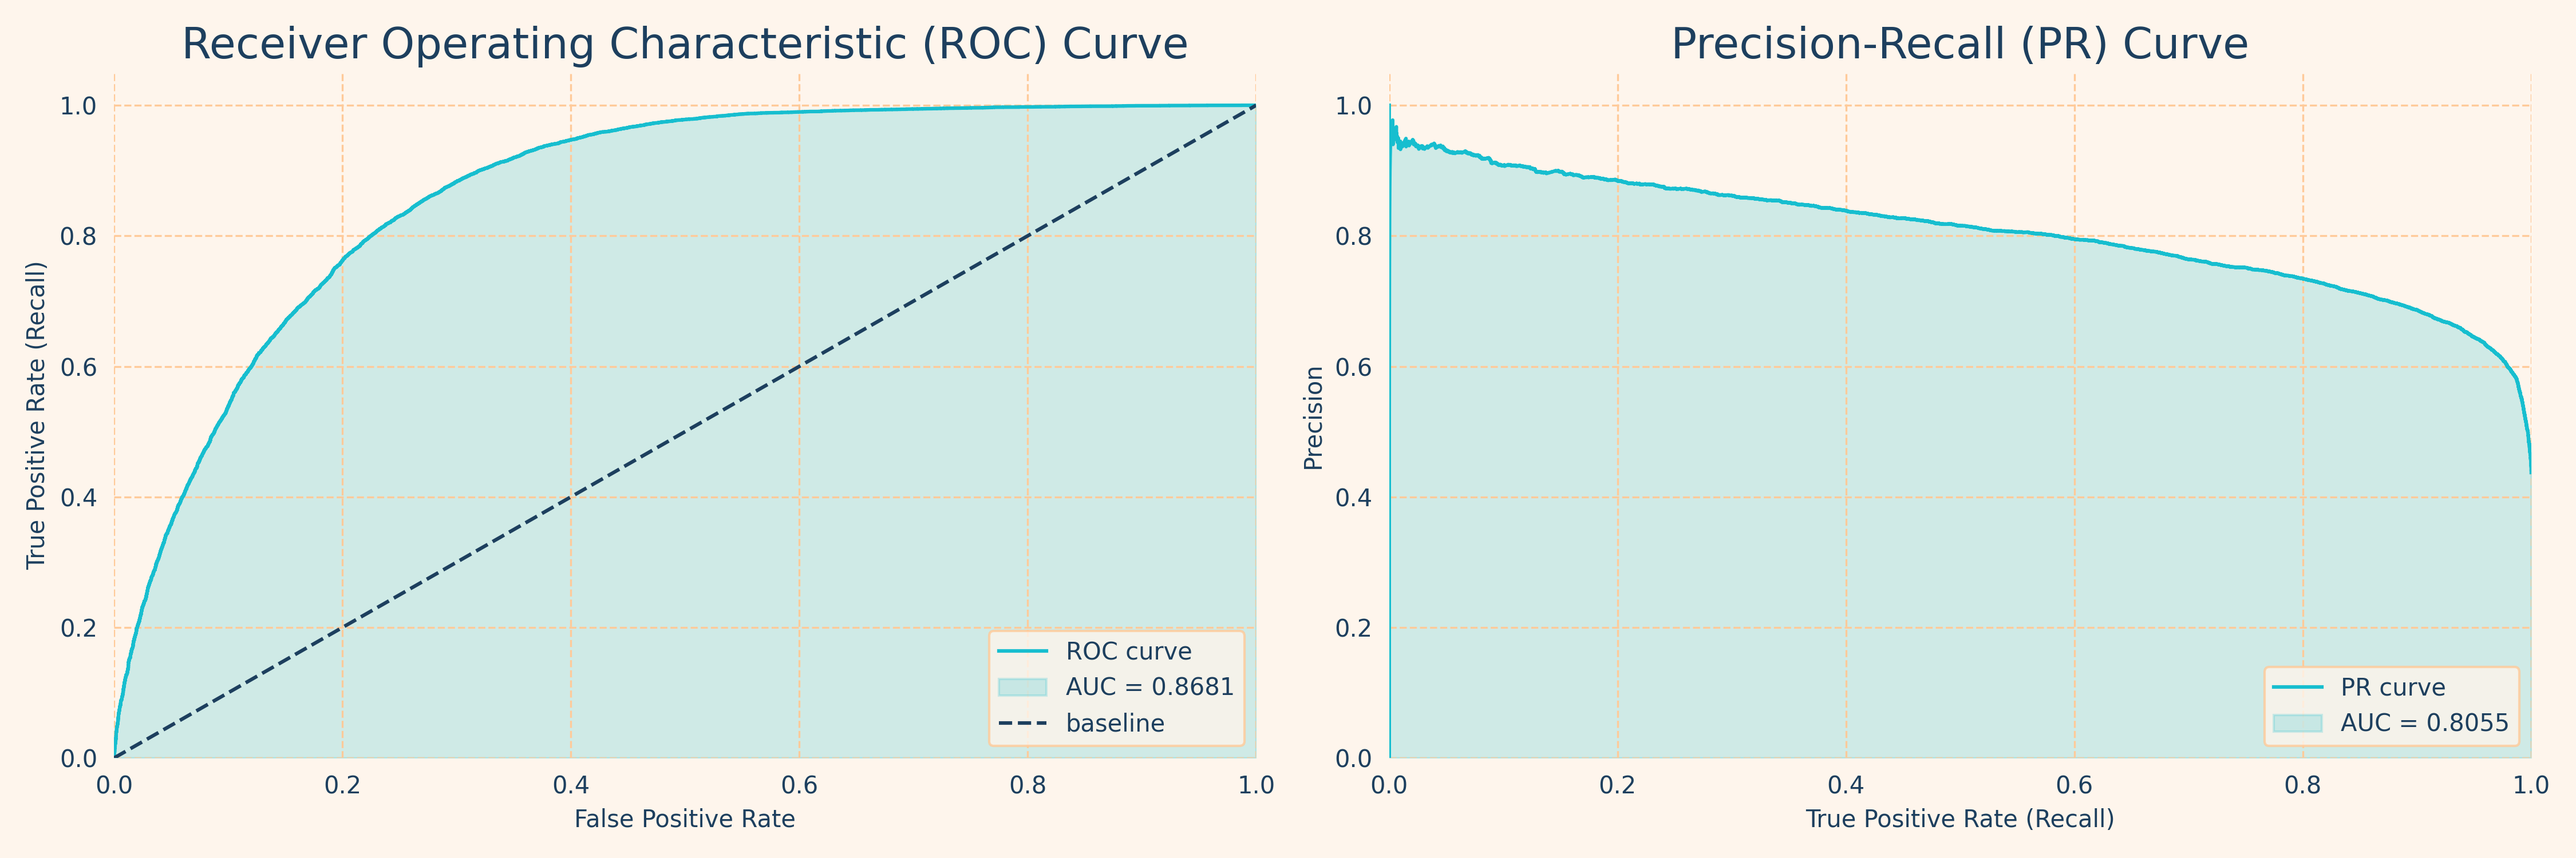
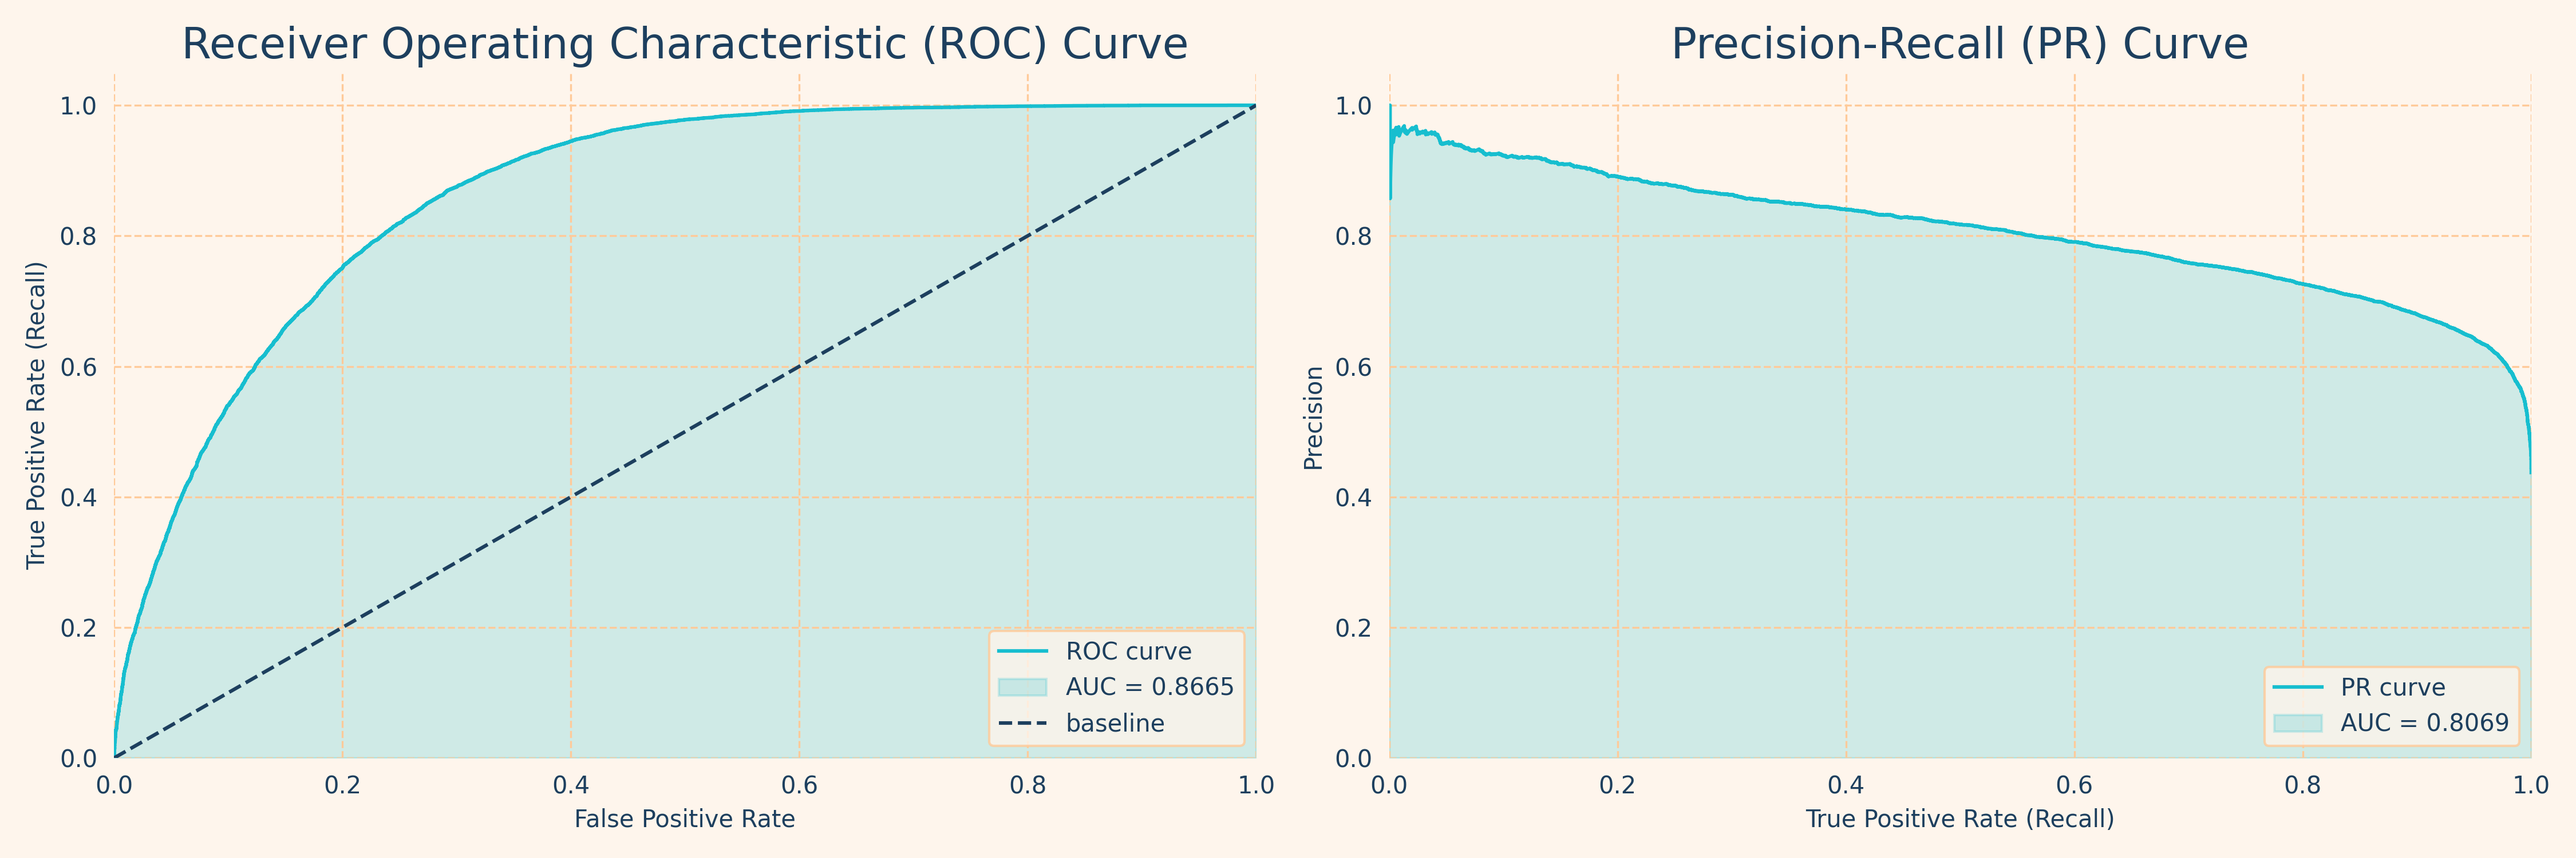
update

diff --git a/pages/2_🚬_Smoker_Status_Prediction.py b/pages/2_🚬_Smoker_Status_Prediction.py
@@ -18,12 +18,12 @@ st.markdown(f'<style>{open("style.css").read()}</style>', unsafe_allow_html=True
 # Table of Contents
 st.sidebar.markdown("""
     # Contents
-    1. [Introduction](#overview)
+    1. [Introduction](#intro)
     2. [Exploratory Data Analysis](#eda)
     3. [Feature Engineering](#feature-engineering)
     4. [Scaling](#scaling)
     5. [Modeling](#modeling)
-    6. [Evaluation & Insights](#evaluation)
+    6. [Evaluation & Interpretation](#evaluation&interpretation)
     7. [Final Thoughts](#final-thoughts)
 """)
 
@@ -38,17 +38,21 @@ st.caption('Kaggle Competition Playground Series – Season 3, Episode 24')
 
 st.image(TITLE_IMG_PATH, caption='Image created with DALL·E')
 
-st.markdown('<a name="overview"></a>', unsafe_allow_html=True)
+st.markdown('<a name="intro"></a>', unsafe_allow_html=True)
 st.write('## Introduction')
 st.write('''
     The objective of this [Kaggle competion](https://www.kaggle.com/competitions/playground-series-s3e24/) 
     was to use binary classification to predict a patient's smoking status given information about various 
     other health indicators. The metric used in order to score the participants was the area under the ROC curve.
-    The dataset was synthetically generated from a deep learning model trained on the
-    [Smoker Status Prediction using Bio-Signals](https://www.kaggle.com/datasets/gauravduttakiit/smoker-status-prediction-using-biosignals).
+    The dataset was synthetically generated from a deep learning model trained on a real-word dataset, which is called
+    ["Smoker Status Prediction using Bio-Signals"](https://www.kaggle.com/datasets/gauravduttakiit/smoker-status-prediction-using-biosignals) on Kaggle.
     Feature distributions are close to, but not exactly the same, as the original.
+         
+    I've approached this project with the intention of not simply trying to produce a well-performing prediction model, 
+    but to also generate and communicate insights into how the features relate to each other and the target variable
+    and to cautiously touch on questions about the underlying causality.
+    If you'd like to check out this project's source code you can check out my [Kaggle notebook](https://www.kaggle.com).
 ''')
-st.write('''[Click here](https://www.kaggle.com) to view my kaggle notebook for this project.''')
 
 st.divider()
 
@@ -145,23 +149,20 @@ st.divider()
 st.markdown('<a name="feature-engineering"></a>', unsafe_allow_html=True)
 st.write('## Feature Engineering')
 st.write('''
-        
-    I added and transformed various features, hoping to find out if I could 
+    I added and transformed various features, hoping to gain insights about how certain features relate to the target
+    and to possibly increase the signal to noise ratio. Specifically here's what I did:
             
-    - I created BMI from height & weight
-    - replaced eyesight outliers at 9.9 with 0.0
-    - replace eyesight left/right with mean, min & max
-    - replace hearings left/right with mean, min & max
-    - add mean blood pressure
-    - add blood pressure diff
-    - clip skewed columns Gtp, HDL, LDL, ALT, AST & serum creatinine
+    - Create BMI from height & weight: kg / m^2
+    - Replacedeyesight outliers at 9.9 with 0.0
+    - Replace eyesight left/right with mean, min & max
+    - Replace hearings left/right with mean, min & max
+    - Add mean blood pressure
+    - Add blood pressure diff
+    - Clip the most extreme outliers of the skewed columns Gtp, HDL, LDL, ALT, AST & serum creatinine
 
-    **What I didn't bother to try:**
-
-    - create bmi categories (underweight, normal, overweight, obese)
-    - create bloodpressure categories (low, normal, hypertension, stage 2)
-    - (I thought it was doubtful that these categories would add information that the raw numbers didn't provide)
-
+    I thought of further features to add. For example BMI categories such as underweight, normal, overweight & obese,
+    or bloodpressure categories such as low, normal, hypertension stage 1 & 2. 
+    In the end I didn't because I figured that it was doubtful that these categories would help much.
 ''')
 
 st.divider()
@@ -180,18 +181,57 @@ st.markdown('<a name="modeling"></a>', unsafe_allow_html=True)
 st.write('## Modeling')
 
 st.write('''
-
+    I tried a couple popular ML algorithms and compared their scores and runtimes: 
+    - *LogisticRegression*
+    - *LinearSVC*
+    - *RandomForestClassifier*
+    - *AdaBoostClassifier*
+    - *HistGradientBoostClassifier*
+    - *ExtraTreesClassifier*
+    - *XGBClassifier*
+    - *LGBMClassifier*
+         
+    Unsurprisingly logistic regression was by far the fastest, but I got the best scores using LGBM, XGB and HistGradientBoost.
+    I then tried two different ways of combining these estimators.
+    - *VotingClassifier*: performed well enough but not always better than its best estimator
+    - *StackingClassifier* (with a simple logistic regression as final estimator): performed better than even its best base estimator
 ''')
 
 st.divider()
-st.markdown('<a name="evaluation"></a>', unsafe_allow_html=True)
-st.write('## Evaluation')
+st.markdown('<a name="evaluation&interpretation"></a>', unsafe_allow_html=True)
+st.write('## Evaluation & Interpretation')
+
+st.write('''
+    With a simple training-validation-split I got an area under the ROC curve of **0.8665**,
+    which turned out to be very close to my final score on the actual testset: **0.8675**.
+''')
 
 st.image(PLOT_PATH + 'roc_pr_curves.png')
+st.write('''
+    It's worth mentioning that every single classifier I tried had relatively low variability in their scores, so the results are robust.
+    This could be in part due to the large amount of data available, 
+    so that any sample used for training, will be fairly representative of the entire dataset.
+''')
+
 st.markdown('<hr style="border:0.5px solid #FFDFC2;"/>', unsafe_allow_html=True)
 st.image(PLOT_PATH + 'permutation_importance.png')
+
+st.write('''
+    As it turns out, height is one of the very best predictors for predicting whether or not somebody is a smoker. 
+    But what does this result really point to? Obviously smoking does not cause people to become taller.
+    It's also implausible, although not impossible, that there's something about being tall itself that causes an increased tendency to smoke.
+    The most likely explanation is, however, that being tall in the context of this dataset serves simply a proxy for being male. 
+    After all men are much more likely to smoke. Yet another reminder that *correlation does not equal causation*.
+
+    In some sense this insight is quite unhelpful because it doesn't help us understand how smoking changes the body.
+    In another sense this result is highly interesting because it shows how powerful a predictor a person's sex is. 
+    It is such a strong predictor for smoker status, that even a variable like height 
+    which correlates imperfectly with sex trumps most other factors such as blood pressure or lipid profile.
+''')
 
 st.divider()
 st.markdown('<a name="final-thoughts"></a>', unsafe_allow_html=True)
 st.write('## Final Thoughts')
-
+st.write('''
+In the end it is a social category, rather
+         ''')

diff --git a/1_🏠_Home.py b/1_🏠_Home.py
@@ -4,7 +4,7 @@ import streamlit as st
 # Local imports
 import st_utils
 
-st.set_page_config(page_title="Introduction", page_icon="🏠", layout="wide")
+st.set_page_config(page_title="Michael Tezak – Data Science", page_icon="🏠", layout="wide")
 st.markdown(f'<style>{open("style.css").read()}</style>', unsafe_allow_html=True)
 
 st_utils.get_sidebar_links()
